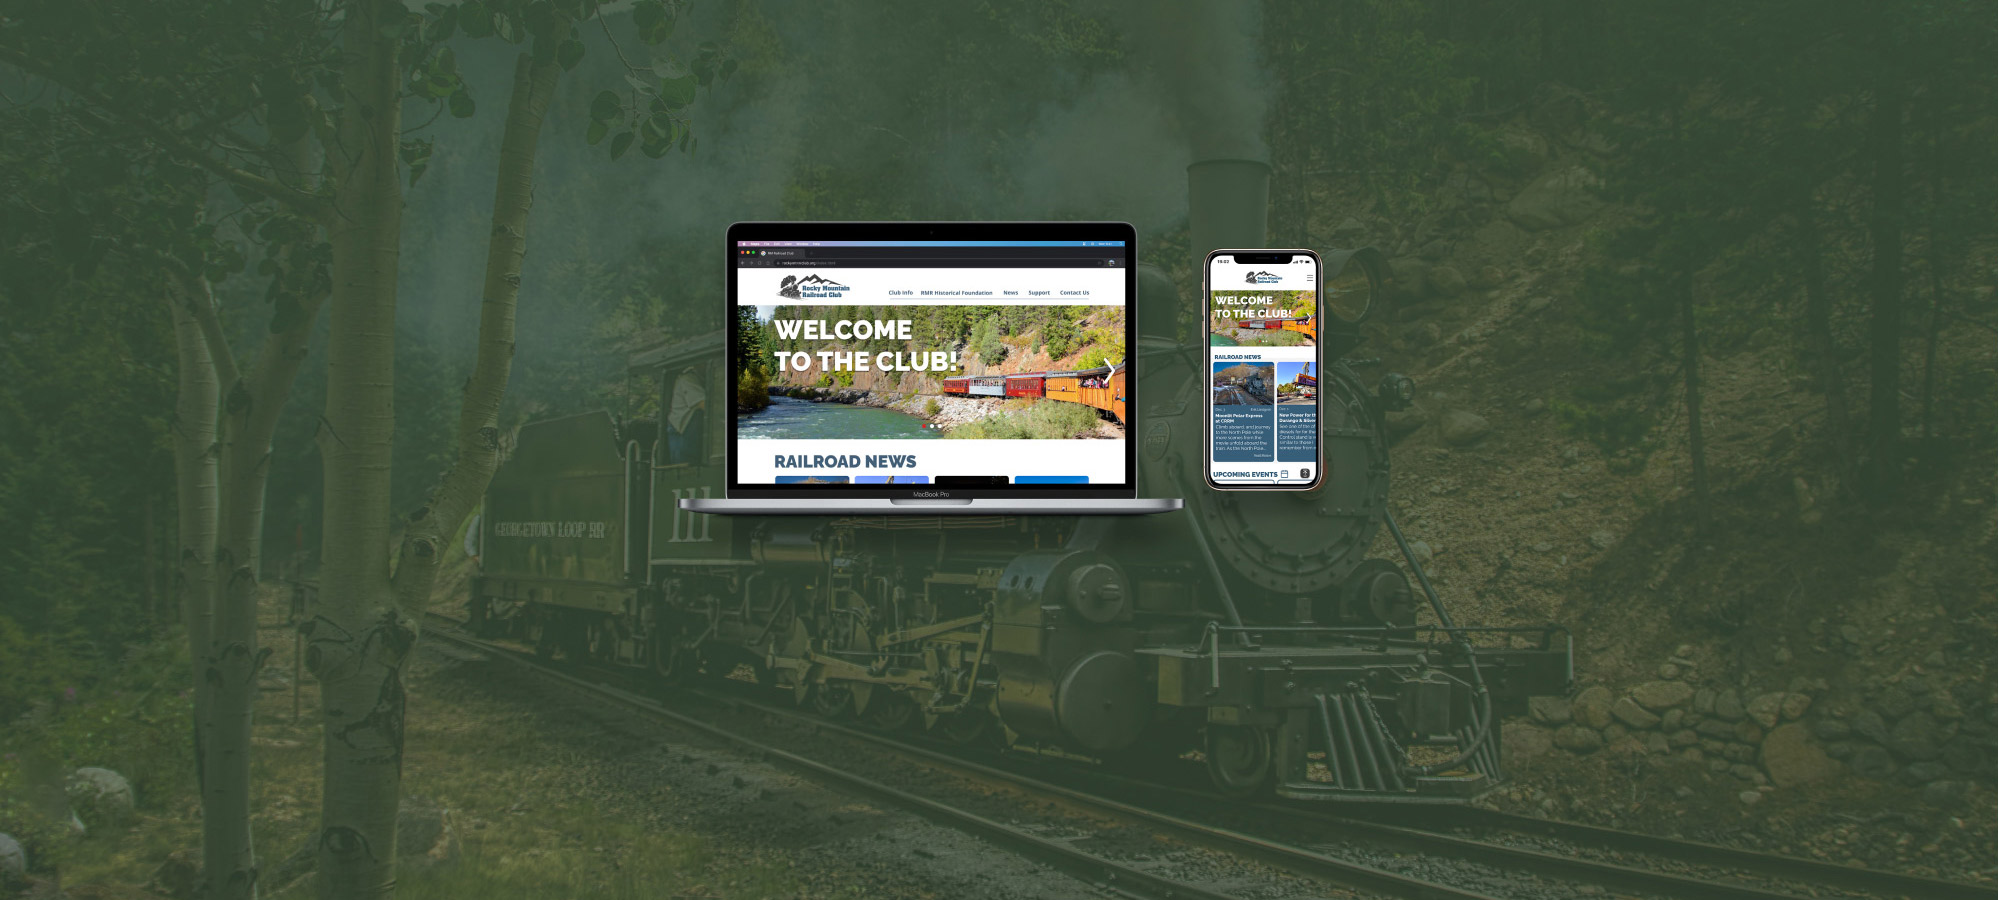
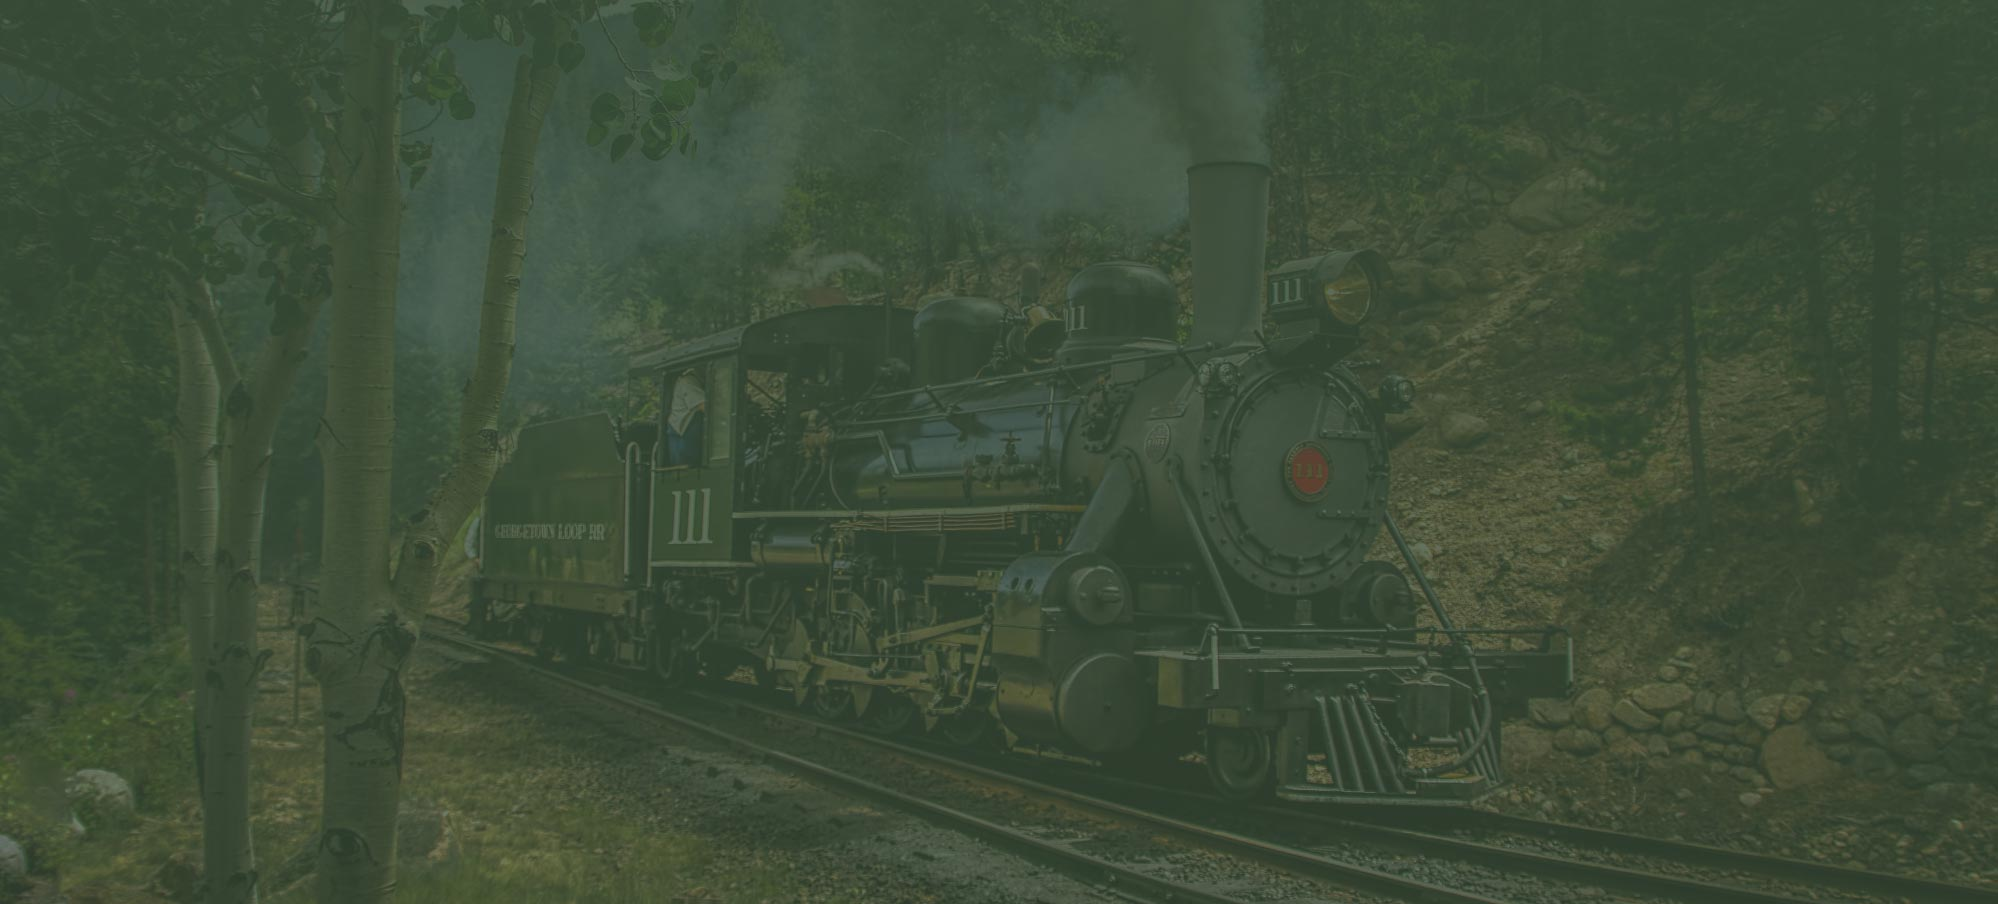
update to images

Changed region(s): [[0.3413, 0.2178, 0.6827, 0.5911]]

diff --git a/rmrc.html b/rmrc.html
@@ -296,7 +296,7 @@
         </header>
         <section id="introContent">
             <div id="intro">
-
+                <img class="heroImg" src="images/RMRC/pages/mock.webp">
                 <div class="heroText">
                     <h1>Rocky Mountain Railroad Club</h1>
                     <h3>website redesign concept</h3>
